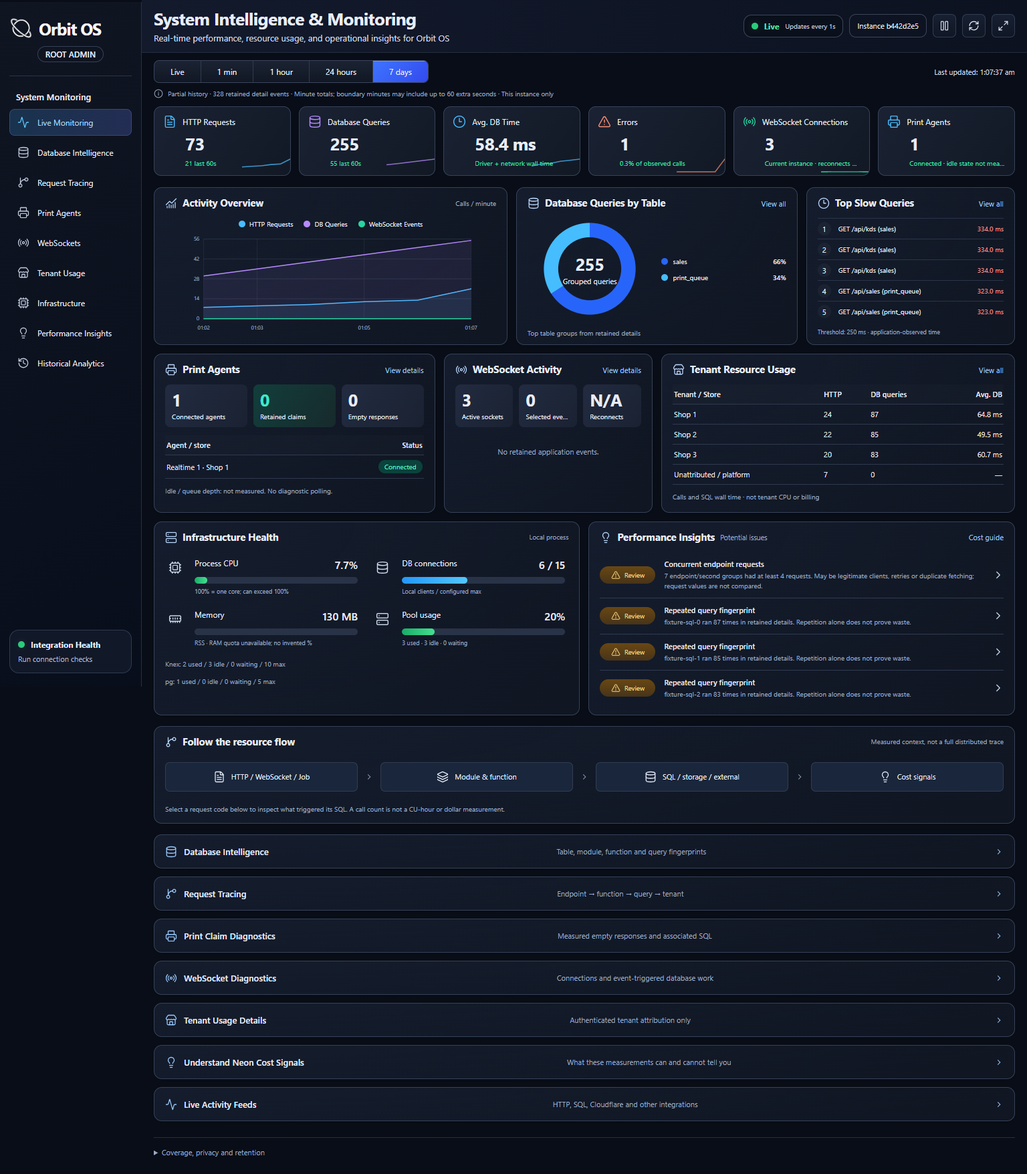
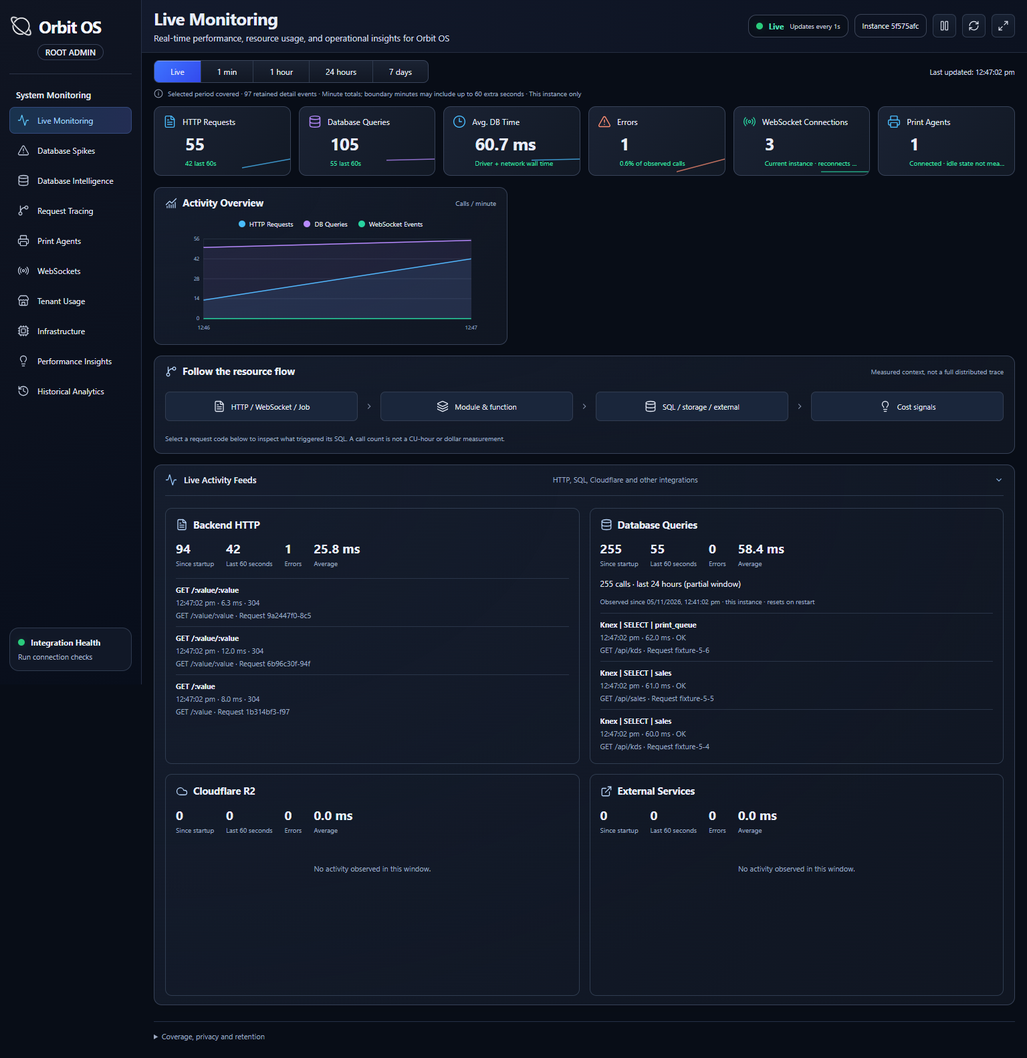
monitorrefined and removed

diff --git a/public/js/request-monitor.js b/public/js/request-monitor.js
@@ -2,6 +2,7 @@
   const $ = id => document.getElementById(id);
   const colors = ['#2765fa', '#45bdff', '#31d58d', '#ffd16c', '#a884ff', '#7285ff', '#eaa5a1'];
   let socket, paused = false, selectedWindow = 'live', selectedTrace = null, latest;
+  const currentView = location.pathname.split('/').filter(Boolean).at(-1) || 'overview';
   const ns = 'http://www.w3.org/2000/svg';
   const iconNodes = new Map();
   function el(tag, text, className) {
@@ -130,6 +131,24 @@
     table($('module-data'), [['Module', 'name'], ['Queries', 'count'], ['Total time', r => ms(r.ms)]], d.modules);
     table($('function-data'), [['Function / sampled site', 'name'], ['Queries', 'count'], ['Total time', r => ms(r.ms)]], d.functions);
   }
+  function spikePanels(d) {
+    const host = $('spike-list'); if (!host) return; host.replaceChildren();
+    const definition = d.spikeDefinition || {};
+    $('spike-definition').textContent = `Thresholds: ${num(definition.queryThreshold)} SQL/min · ${ms(definition.wallMsThreshold)} SQL wall · ${num(definition.slowThreshold)} slow calls`;
+    if (!d.spikes?.length) { empty(host, 'No database spike crossed the measured thresholds in this window.'); return; }
+    for (const spike of d.spikes.slice(0, 60)) {
+      const card = el('article', undefined, 'spike-card'), heading = el('div', undefined, 'spike-heading'), title = el('div');
+      title.append(el('strong', new Date(spike.at).toLocaleString()), el('small', 'Exact minute start · this application instance'));
+      heading.append(title, pill(`${num(spike.queries)} SQL · ${ms(spike.sqlWallMs)}`, spike.slowQueries ? 'warn' : 'unknown')); card.append(heading);
+      const grid = el('div', undefined, 'spike-grid'), fingerprints = el('section'), origins = el('section'), jobs = el('section'), requests = el('section'), tenantsHost = el('section');
+      fingerprints.append(el('h3', 'Top SQL fingerprints')); const fingerprintTable = el('div'); table(fingerprintTable, [['Fingerprint', 'fingerprint'], ['Table', 'table'], ['Calls', 'count'], ['SQL wall', r => ms(r.wallMs)]], spike.fingerprints, 5); fingerprints.append(fingerprintTable);
+      origins.append(el('h3', 'Endpoints and background jobs')); const originTable = el('div'); table(originTable, [['Origin', 'name'], ['Type', 'kind'], ['Queries', 'count']], spike.origins, 8); origins.append(originTable);
+      jobs.append(el('h3', 'Background jobs in this minute')); const jobsTable = el('div'); table(jobsTable, [['Job / internal origin', 'name'], ['Queries', 'count']], spike.jobs, 5); jobs.append(jobsTable);
+      requests.append(el('h3', 'Queries per request / job')); const requestTable = el('div'); table(requestTable, [['Trace', 'trace'], ['Origin', 'source'], ['Tenant', 'tenant'], ['Queries', 'queries'], ['Session', 'sessionQueries'], ['Permission', 'permissionQueries']], spike.requests, 10); requests.append(requestTable);
+      tenantsHost.append(el('h3', 'Tenant attribution')); const tenantTable = el('div'); table(tenantTable, [['Tenant', 'name'], ['Queries', 'count']], spike.tenants, 8); tenantsHost.append(tenantTable);
+      grid.append(fingerprints, origins, jobs, requests, tenantsHost); card.append(grid, el('p', `Measured application SQL wall: ${ms(spike.timing.applicationSqlWallMs)} · Maximum observed local pool queue: ${num(spike.timing.maxWaitingConnections)} · PostgreSQL execution: unavailable · Network: unavailable · Connection wait duration: unavailable. ${spike.timing.note}`, 'subtle')); host.append(card);
+    }
+  }
   function printPanels(data) {
     const d = data.intelligence, agents = data.runtime.agents, host = $('print-data'); host.replaceChildren();
     stats(host, [[num(agents.length), 'Connected agents'], [num(d.print.claimCalls), 'Retained claims', 'success'], [num(d.print.emptyClaims), 'Empty responses']]);
@@ -216,7 +235,7 @@
     $('updated').textContent = 'Last updated: ' + new Date(data.checkedAt).toLocaleTimeString();
     $('coverage').textContent = `${data.intelligence.complete ? 'Selected period covered' : 'Partial history'} · ${data.intelligence.detailsCoverage.retained} retained detail events${data.intelligence.detailsCoverage.truncated ? ' — detail buffer truncated; rankings incomplete' : ''} · Minute totals; boundary minutes may include up to 60 extra seconds · This instance only`;
     $('coverage').prepend(icon('info'));
-    kpis(data); activityChart(data.intelligence); databasePanels(data.intelligence); printPanels(data); socketPanels(data); tenants(data.intelligence); infrastructure(data); insights(data.intelligence);
+    kpis(data); activityChart(data.intelligence); databasePanels(data.intelligence); spikePanels(data.intelligence); printPanels(data); socketPanels(data); tenants(data.intelligence); infrastructure(data); insights(data.intelligence);
     if (!$('trace-data').matches(':hover') && !$('trace-data').contains(document.activeElement)) traces(data.intelligence);
     feeds(data);
   }
@@ -239,7 +258,16 @@
   });
   $('clear-trace').addEventListener('click', () => { selectedTrace = null; if (latest) traces(latest.intelligence); });
   $('history').addEventListener('click', event => { const button = event.target.closest('[data-window]'); if (!button) return; selectedWindow = button.dataset.window; for (const node of document.querySelectorAll('[data-window]')) node.setAttribute('aria-pressed', String(node === button)); socket?.emit('monitor:window', selectedWindow); });
-  for (const link of document.querySelectorAll('.sidebar nav a')) link.addEventListener('click', event => { event.preventDefault(); for (const other of document.querySelectorAll('.sidebar nav a')) other.classList.toggle('active', other === link); openDetail(link.hash.slice(1)); });
+  function configurePage() {
+    const views = { overview:['overview','activity','flow'], spikes:['spikes'], database:['database','slow','db-details'], tracing:['tracing'], printing:['printing','print-details'], websockets:['websockets','socket-details'], tenants:['tenants','tenant-details'], infrastructure:['infrastructure'], insights:['insights','cost-details'], history:['activity'] };
+    const visible = new Set(views[currentView] || views.overview), targets = new Set();
+    for (const ids of Object.values(views)) for (const id of ids) { const node = $(id); if (node) targets.add(node); }
+    const cards = $('cards')?.closest('details'); if (cards) { cards.dataset.monitorTarget='live-feeds'; targets.add(cards); if(currentView==='overview') visible.add('live-feeds'); }
+    for (const node of targets) { node.hidden = !(visible.has(node.id) || visible.has(node.dataset.monitorTarget)); if (!node.hidden && node.tagName === 'DETAILS') node.open = true; }
+    for (const link of document.querySelectorAll('.sidebar nav a[data-view]')) link.classList.toggle('active', link.dataset.view === currentView);
+    const names={overview:'Live Monitoring',spikes:'Database Spikes',database:'Database Intelligence',tracing:'Request Tracing',printing:'Print Agents',websockets:'WebSocket Monitoring',tenants:'Tenant Usage',infrastructure:'Infrastructure Health',insights:'Performance Insights',history:'Historical Analytics'};
+    document.title=`${names[currentView]||names.overview} | Orbit OS`; document.querySelector('.topbar h1').textContent=names[currentView]||names.overview;
+  }
   $('toggle').addEventListener('click', () => { paused = !paused; setToggle(paused ? 'Resume live' : 'Pause live', paused ? 'play' : 'pause'); if (paused) { socket?.disconnect(); connection('Paused'); } else connect(); });
   $('refresh').addEventListener('click', () => { paused = false; setToggle('Pause live', 'pause'); connect(); });
   $('fullscreen').addEventListener('click', async () => { try { if (document.fullscreenElement) await document.exitFullscreen(); else await document.documentElement.requestFullscreen(); } catch { $('updated').textContent = 'Fullscreen unavailable in this browser'; } });
@@ -253,6 +281,6 @@
   }).then(text => {
     const document = new DOMParser().parseFromString(text, 'image/svg+xml');
     for (const symbol of document.querySelectorAll('symbol')) iconNodes.set(symbol.id, [...symbol.childNodes]);
-    hydrateIcons(); connect();
+    hydrateIcons(); configurePage(); connect();
   }).catch(() => { connection('Icon asset unavailable - reload'); });
 })();

diff --git a/public/request-monitor.html b/public/request-monitor.html
@@ -1,6 +1,6 @@
 <!doctype html>
 <html lang="en"><head><meta charset="utf-8"><meta name="viewport" content="width=device-width,initial-scale=1"><title>System Intelligence | Orbit OS</title><script src="/js/integration-health-theme.js"></script><link rel="stylesheet" href="/request-monitor.css"></head><body>
-<aside class="sidebar"><a class="brand" href="/admin/store-monitoring"><img src="/icons/logo-dark.png" alt="" onerror="this.hidden=true"> <span>Orbit OS</span></a><span class="root">ROOT ADMIN</span><div class="nav-section">System Monitoring</div><nav aria-label="System monitoring"><a href="#overview" class="active" data-icon="activity">Live Monitoring</a><a href="#database" data-icon="database">Database Intelligence</a><a href="#tracing" data-icon="trace">Request Tracing</a><a href="#printing" data-icon="printer">Print Agents</a><a href="#websockets" data-icon="radio">WebSockets</a><a href="#tenants" data-icon="store">Tenant Usage</a><a href="#infrastructure" data-icon="cpu">Infrastructure</a><a href="#insights" data-icon="lightbulb">Performance Insights</a><a href="#history" data-icon="history">Historical Analytics</a></nav><a class="health-link" href="/api/admin/integration-health/view"><span class="health-dot"></span><strong>Integration Health</strong><small>Run connection checks</small></a></aside>
+<aside class="sidebar"><a class="brand" href="/admin/store-monitoring"><img src="/icons/logo-dark.png" alt="" onerror="this.hidden=true"> <span>Orbit OS</span></a><span class="root">ROOT ADMIN</span><div class="nav-section">System Monitoring</div><nav aria-label="System monitoring"><a href="/api/admin/request-monitor/view/overview" data-view="overview" data-icon="activity">Live Monitoring</a><a href="/api/admin/request-monitor/view/spikes" data-view="spikes" data-icon="alert">Database Spikes</a><a href="/api/admin/request-monitor/view/database" data-view="database" data-icon="database">Database Intelligence</a><a href="/api/admin/request-monitor/view/tracing" data-view="tracing" data-icon="trace">Request Tracing</a><a href="/api/admin/request-monitor/view/printing" data-view="printing" data-icon="printer">Print Agents</a><a href="/api/admin/request-monitor/view/websockets" data-view="websockets" data-icon="radio">WebSockets</a><a href="/api/admin/request-monitor/view/tenants" data-view="tenants" data-icon="store">Tenant Usage</a><a href="/api/admin/request-monitor/view/infrastructure" data-view="infrastructure" data-icon="cpu">Infrastructure</a><a href="/api/admin/request-monitor/view/insights" data-view="insights" data-icon="lightbulb">Performance Insights</a><a href="/api/admin/request-monitor/view/history" data-view="history" data-icon="history">Historical Analytics</a></nav><a class="health-link" href="/api/admin/integration-health/view"><span class="health-dot"></span><strong>Integration Health</strong><small>Run connection checks</small></a></aside>
 <main><header class="topbar"><div><h1>System Intelligence &amp; Monitoring</h1><p>Real-time performance, resource usage, and operational insights for Orbit OS</p></div><div class="top-actions"><div class="live-badge"><span class="health-dot"></span><strong id="connection" role="status">Connecting</strong><small>Updates every 1s</small></div><span id="instance" class="instance">Instance —</span><button id="toggle" class="icon-button" aria-label="Pause live" title="Pause live" data-icon="pause"></button><button id="refresh" class="icon-button" aria-label="Reconnect monitor" title="Reconnect" data-icon="refresh"></button><button id="fullscreen" class="icon-button" aria-label="Toggle fullscreen" title="Fullscreen" data-icon="expand"></button></div></header>
 <div class="workspace"><section class="toolbar" id="history"><div class="filters" role="group" aria-label="History window"><button data-window="live" aria-pressed="true">Live</button><button data-window="1m">1 min</button><button data-window="1h">1 hour</button><button data-window="24h">24 hours</button><button data-window="7d">7 days</button></div><span id="updated">Waiting for activity</span></section><p id="coverage" class="coverage">Waiting for observed metrics. No monitoring database queries or writes.</p>
 <section id="overview" class="kpis" aria-label="Measured activity totals"></section>
@@ -15,6 +15,7 @@
 <article class="panel insight-panel" id="insights"><div class="panel-heading"><h2 data-icon="lightbulb">Performance Insights <small>Potential issues</small></h2><button class="text-button" data-detail="cost-details">Cost guide</button></div><div id="insight-data"></div></article>
 </section>
 <section class="flow-panel panel" id="flow"><div class="panel-heading"><h2 data-icon="trace">Follow the resource flow</h2><span class="subtle">Measured context, not a full distributed trace</span></div><div class="flow-steps"><button data-jump="tracing" data-icon="file">HTTP / WebSocket / Job</button><span class="flow-arrow" data-icon="arrow"></span><button data-jump="modules" data-icon="layers">Module &amp; function</button><span class="flow-arrow" data-icon="arrow"></span><button data-jump="db-details" data-icon="database">SQL / storage / external</button><span class="flow-arrow" data-icon="arrow"></span><button data-jump="cost-details" data-icon="lightbulb">Cost signals</button></div><p class="subtle">Select a request code below to inspect what triggered its SQL. A call count is not a CU-hour or dollar measurement.</p></section>
+<section class="panel detail-panel" id="spikes"><div class="panel-heading"><h2 data-icon="alert">Database Spike Timeline</h2><span id="spike-definition" class="subtle"></span></div><p class="subtle">A spike is a measured threshold crossing on this application instance. It is not automatically a Neon compute or billing spike.</p><div id="spike-list"></div></section>
 <details class="panel detail-panel" id="db-details"><summary data-icon="database">Database Intelligence <span>Table, module, function and query fingerprints</span></summary><div class="detail-grid"><div><h3>Table breakdown</h3><div id="table-details"></div></div><div><h3>Repeated query fingerprints</h3><div id="repeat-details"></div></div></div><div class="detail-grid" id="modules"><div><h3>Queries by module</h3><div id="module-data"></div></div><div><h3>Queries by function</h3><div id="function-data"></div></div></div><p class="subtle">Primary-table labels are heuristic. Selected function boundaries are exact; other call sites are sampled every 20 SQL calls. Unattributed work remains visible.</p></details>
 <details class="panel detail-panel" id="tracing"><summary data-icon="trace">Request Tracing <span>Endpoint → function → query → tenant</span></summary><div class="trace-toolbar"><p class="subtle">Filter retained events by request code. Background jobs can have their own trace.</p><button id="clear-trace" hidden>Clear request filter</button></div><div id="trace-data"></div></details>
 <details class="panel detail-panel" id="print-details"><summary data-icon="printer">Print Claim Diagnostics <span>Measured empty responses and associated SQL</span></summary><div id="print-detail-data"></div></details>

diff --git a/src/modules/request-monitor/request-monitor.intelligence.js b/src/modules/request-monitor/request-monitor.intelligence.js
@@ -1,14 +1,32 @@
 const { performance } = require('node:perf_hooks');
 const WINDOWS = { live: 60, '1m': 60, '1h': 3600, '24h': 86400, '7d': 604800 };
-function createIntelligence({ now = Date.now, maxEvents = 3000 } = {}) {
+function createIntelligence({ now = Date.now, maxEvents = 3000, spikeQueryThreshold = 50, spikeWallMsThreshold = 5000, spikeSlowThreshold = 3 } = {}) {
   const started = now(), minutes = new Map(), recent = [];
   let dropped = 0, cpu = process.cpuUsage(), cpuAt = performance.now(), cpuPercent = null;
   function add(kind, event) {
     const at = now(), minute = Math.floor(at / 60000);
     let bucket = minutes.get(minute);
-    if (!bucket) { bucket = { at: minute * 60000, backend: 0, database: 0, cloudflare: 0, external: 0, websocket: 0, errors: 0, dbMs: 0, slow: 0 }; minutes.set(minute, bucket); }
+    if (!bucket) { bucket = { at: minute * 60000, backend: 0, database: 0, cloudflare: 0, external: 0, websocket: 0, errors: 0, dbMs: 0, slow: 0, maxWaitingConnections: 0, fingerprints: new Map(), origins: new Map(), tenants: new Map(), requests: new Map() }; minutes.set(minute, bucket); }
     bucket[kind] = (bucket[kind] || 0) + 1; bucket.errors += event.failed ? 1 : 0;
-    if (kind === 'database') { bucket.dbMs += event.durationMs || 0; bucket.slow += event.durationMs >= 250 ? 1 : 0; }
+    if (kind === 'database') {
+      bucket.dbMs += event.durationMs || 0; bucket.slow += event.durationMs >= 250 ? 1 : 0;
+      const rawFingerprint = event.fingerprint || event.label || 'Unknown', fingerprint = bucket.fingerprints.has(rawFingerprint) || bucket.fingerprints.size < 100 ? rawFingerprint : 'Other fingerprints';
+      const fp = bucket.fingerprints.get(fingerprint) || { fingerprint, label: fingerprint === rawFingerprint ? event.label : 'Additional bounded fingerprints', table: fingerprint === rawFingerprint ? event.table || 'Unknown' : 'Other', count: 0, wallMs: 0 };
+      fp.count++; fp.wallMs += event.durationMs || 0; bucket.fingerprints.set(fingerprint, fp);
+      const rawOrigin = event.source || 'Background / internal', origin = bucket.origins.has(rawOrigin) || bucket.origins.size < 100 ? rawOrigin : 'Other bounded origins';
+      const originRow = bucket.origins.get(origin) || { name: origin, count: 0, kind: origin === rawOrigin && /^(GET|POST|PUT|PATCH|DELETE) /.test(origin) ? 'http' : origin === rawOrigin && origin.startsWith('Socket.IO') ? 'websocket' : 'job' };
+      originRow.count++; bucket.origins.set(origin, originRow);
+      const rawTenant = event.tenant ? `Shop ${event.tenant}` : 'Platform / unattributed', tenant = bucket.tenants.has(rawTenant) || bucket.tenants.size < 100 ? rawTenant : 'Other bounded tenants'; bucket.tenants.set(tenant, (bucket.tenants.get(tenant) || 0) + 1);
+      bucket.maxWaitingConnections = Math.max(bucket.maxWaitingConnections, Number(event.poolWaiting) || 0);
+      if (event.trace && (bucket.requests.has(event.trace) || bucket.requests.size < 500)) {
+        const request = bucket.requests.get(event.trace) || { trace: event.trace, source: origin, tenant, queries: 0, wallMs: 0, sessionQueries: 0, permissionQueries: 0 };
+        if (event.tenant) request.tenant = tenant;
+        request.queries++; request.wallMs += event.durationMs || 0;
+        if (event.table === 'sessions') request.sessionQueries++;
+        if (['user_roles', 'roles', 'role_permissions', 'permissions', 'user_permissions'].includes(event.table)) request.permissionQueries++;
+        bucket.requests.set(event.trace, request);
+      }
+    }
     while (minutes.size > 10081) minutes.delete(minutes.keys().next().value);
     recent.push({ ...event, kind, timestamp: at });
     if (recent.length > maxEvents) { recent.shift(); dropped++; }
@@ -44,7 +62,19 @@ function createIntelligence({ now = Date.now, maxEvents = 3000 } = {}) {
     if (db.some(e=>e.durationMs>=250)) insights.push({title:'Slow SQL observed',detail:'Application-observed SQL duration exceeded 250 ms. Includes network/driver time; not PostgreSQL CPU time.',level:'Measured'});
     const elapsed = performance.now()-cpuAt;
     if (elapsed>=1000) { const next = process.cpuUsage(); cpuPercent=Math.round(((next.user-cpu.user)+(next.system-cpu.system))/1000/elapsed*1000)/10;cpu=next;cpuAt=performance.now(); }
-    return { window, totals, series: buckets.filter((_b,i)=>i % Math.max(1,Math.ceil(buckets.length/120))===0), complete: at-started>=seconds*1000, observedSince:new Date(Math.max(started,cutoff)).toISOString(),
+    const spikes = buckets.filter((bucket) => bucket.database >= spikeQueryThreshold || bucket.dbMs >= spikeWallMsThreshold || bucket.slow >= spikeSlowThreshold).map((bucket) => ({
+      at: new Date(bucket.at).toISOString(), queries: bucket.database, sqlWallMs: Math.round(bucket.dbMs * 10) / 10, slowQueries: bucket.slow,
+      thresholds: { queries: spikeQueryThreshold, sqlWallMs: spikeWallMsThreshold, slowQueries: spikeSlowThreshold },
+      fingerprints: [...bucket.fingerprints.values()].sort((a,b)=>b.count-a.count || b.wallMs-a.wallMs).slice(0,5),
+      origins: [...bucket.origins.values()].sort((a,b)=>b.count-a.count).slice(0,8),
+      jobs: [...bucket.origins.values()].filter(row=>row.kind==='job').sort((a,b)=>b.count-a.count).slice(0,5),
+      tenants: [...bucket.tenants].map(([name,count])=>({name,count})).sort((a,b)=>b.count-a.count).slice(0,8),
+      requests: [...bucket.requests.values()].sort((a,b)=>b.queries-a.queries || b.wallMs-a.wallMs).slice(0,10),
+      timing: { applicationSqlWallMs: Math.round(bucket.dbMs * 10) / 10, postgresExecutionMs: null, networkMs: null, connectionWaitMs: null, maxWaitingConnections: bucket.maxWaitingConnections,
+        note: 'SQL wall time is measured around the driver call. PostgreSQL execution, network, and connection-wait duration are not separable; maximum observed local pool queue depth is measured.' },
+    })).sort((a,b)=>b.at.localeCompare(a.at));
+    const series = buckets.filter((_b,i)=>i % Math.max(1,Math.ceil(buckets.length/120))===0).map(({ at, backend, database, cloudflare, external, websocket, errors, dbMs, slow }) => ({ at, backend, database, cloudflare, external, websocket, errors, dbMs, slow }));
+    return { window, totals, spikes, spikeDefinition:{queryThreshold:spikeQueryThreshold,wallMsThreshold:spikeWallMsThreshold,slowThreshold:spikeSlowThreshold}, series, complete: at-started>=seconds*1000, observedSince:new Date(Math.max(started,cutoff)).toISOString(),
       resolution:'One-minute buckets; boundary minutes can include up to 60 seconds outside the filter.',
       detailsCoverage:{retained:events.length,limit:maxEvents,truncated:dropped>0 && recent[0]?.timestamp>cutoff,since:events[0]?.at||null},
       print:{emptyClaims:emptyClaims.length,claimCalls:polling.reduce((n,r)=>n+r.count,0),dbCallsForEmptyClaims:db.filter(e=>emptyTraces.has(e.trace)).length,attribution:'Retained request details only. Empty does not mean the reliability check was unnecessary.'},

diff --git a/tests/request-monitor-intelligence.test.js b/tests/request-monitor-intelligence.test.js
@@ -25,3 +25,8 @@ test('named function wrappers preserve sync returns, thrown errors and rejected 
 test('detail overflow is explicitly disclosed and history selection cannot change totals since startup',()=>{
  let time=1000;const i=createIntelligence({now:()=>time,maxEvents:2});i.add('database',{label:'a',durationMs:1});time=2000;i.add('database',{label:'b',durationMs:2});time=3000;i.add('database',{label:'c',durationMs:3});const d=i.snapshot('1h');assert.equal(d.detailsCoverage.truncated,true);assert.equal(d.totals.database,3);assert.equal(d.traces.length,2);
 });
+test('database spikes retain safe minute fingerprints, origins, tenants and per-request query counts',()=>{
+ let time=Date.parse('2026-11-05T10:21:34Z');const i=createIntelligence({now:()=>time,spikeQueryThreshold:3,spikeWallMsThreshold:99999,spikeSlowThreshold:99});
+ for(let n=0;n<3;n++)i.add('database',{label:'Knex | SELECT | sessions',durationMs:12,table:'sessions',fingerprint:'abc123',trace:'trace-safe',tenant:7,source:'GET /api/auth/me'});
+ const spike=i.snapshot('1m').spikes[0];assert.equal(spike.at,'2026-11-05T10:21:00.000Z');assert.equal(spike.fingerprints[0].fingerprint,'abc123');assert.equal(spike.origins[0].name,'GET /api/auth/me');assert.equal(spike.requests[0].queries,3);assert.equal(spike.requests[0].sessionQueries,3);assert.deepEqual(spike.tenants[0],{name:'Shop 7',count:3});assert.equal(spike.timing.postgresExecutionMs,null);assert.match(spike.timing.note,/not separable/);assert.ok(!JSON.stringify(spike).includes('cookie'));
+});

diff --git a/tests/request-monitor.test.js b/tests/request-monitor.test.js
@@ -39,3 +39,7 @@ test('24-hour database window expires old calls, stays bounded and reports parti
  time=172802000;assert.equal(m.snapshot().cards.database.last24Hours.count,0);
  assert.equal(createMonitor({now:()=>time}).snapshot().cards.database.last24Hours.complete,false);
 });
+test('root-only monitoring sections are separate routable pages',async t=>{
+ const app=express();app.use((req,res,next)=>{req.session=req.headers['x-role']?{user:{role:req.headers['x-role']}}:{};next();});app.use('/monitor',createMonitorRouter({monitor:createMonitor()}));const server=app.listen(0,'127.0.0.1');await new Promise(r=>server.once('listening',r));t.after(()=>new Promise(r=>server.close(r)));const base='http://127.0.0.1:'+server.address().port;
+ assert.equal((await fetch(base+'/monitor/view/spikes',{headers:{'x-role':'admin'}})).status,403);assert.equal((await fetch(base+'/monitor/view/spikes',{headers:{'x-role':'superadmin'}})).status,200);assert.equal((await fetch(base+'/monitor/view/not-a-page',{headers:{'x-role':'superadmin'}})).status,404);const redirect=await fetch(base+'/monitor/view',{headers:{'x-role':'superadmin'},redirect:'manual'});assert.equal(redirect.status,302);assert.match(redirect.headers.get('location'),/view\/overview$/);
+});

diff --git a/public/request-monitor.css b/public/request-monitor.css
@@ -19,3 +19,4 @@ svg.icon{display:inline-block;width:18px;height:18px;min-width:18px;max-width:18
 .severity .icon,.coverage .icon,.trace-node .icon,.flow-arrow .icon,.detail-panel summary>.summary-arrow{width:14px;height:14px;min-width:14px;max-width:14px;min-height:14px;max-height:14px;flex-basis:14px}
 .infra-item>.icon{width:20px;height:20px;min-width:20px;max-width:20px;min-height:20px;max-height:20px;flex-basis:20px}
 @media(max-width:650px){.panel h2>.icon,.sidebar nav a .icon{width:16px;height:16px;min-width:16px;max-width:16px;min-height:16px;max-height:16px;flex-basis:16px}}
+[hidden]{display:none!important}.spike-card{border-top:1px solid var(--line);padding:18px 0}.spike-card:first-child{border-top:0}.spike-heading{display:flex;align-items:center;justify-content:space-between;gap:14px;margin-bottom:12px}.spike-heading strong,.spike-heading small{display:block}.spike-heading small{color:var(--muted);font-size:10px;margin-top:4px}.spike-grid{display:grid;grid-template-columns:1fr 1fr;gap:16px}.spike-grid h3{font-size:11px;color:#cfe1ff}@media(max-width:900px){.spike-grid{grid-template-columns:1fr}}

diff --git a/src/modules/request-monitor/request-monitor.routes.js b/src/modules/request-monitor/request-monitor.routes.js
@@ -5,7 +5,9 @@ function createMonitorRouter({ monitor = require('./request-monitor.service').mo
   const router = express.Router();
   router.use(requireSuperAdmin);
   router.use((req, res, next) => { res.set('Cache-Control', 'no-store, private'); next(); });
-  router.get('/view', (req, res) => res.sendFile(path.resolve(__dirname, '../../../public/request-monitor.html')));
+  const views = new Set(['overview','spikes','database','tracing','printing','websockets','tenants','infrastructure','insights','history']);
+  router.get('/view', (req, res) => res.redirect(302, req.baseUrl + '/view/overview'));
+  router.get('/view/:view', (req, res, next) => views.has(req.params.view) ? res.sendFile(path.resolve(__dirname, '../../../public/request-monitor.html')) : next());
   router.get('/', (req, res) => res.json(monitor.snapshot(require('./request-monitor.intelligence').WINDOWS[req.query.window] ? req.query.window : 'live')));
   return router;
 }

diff --git a/src/modules/request-monitor/request-monitor.service.js b/src/modules/request-monitor/request-monitor.service.js
@@ -79,6 +79,7 @@ function createMonitor({ now = Date.now, clock = () => performance.now(), limit 
     event.module = source?.module || source?.request?.originalUrl?.split('?')[0]?.split('/')[2] || 'Background / internal';
     if (!SEGMENTS.has(event.module) && event.module !== 'websocket') event.module = 'Other / internal';
     event.function = source?.function || extra.caller || 'Not attributed';
+    if (kind === 'database') event.poolWaiting = [...pools.values()].reduce((total, read) => total + (Number(read().waiting) || 0), 0);
     if (source?.emptyClaim !== undefined) event.emptyClaim = source.emptyClaim;
     if(extra.table) event.table=extra.table;
     if(extra.fingerprint) event.fingerprint=extra.fingerprint;
